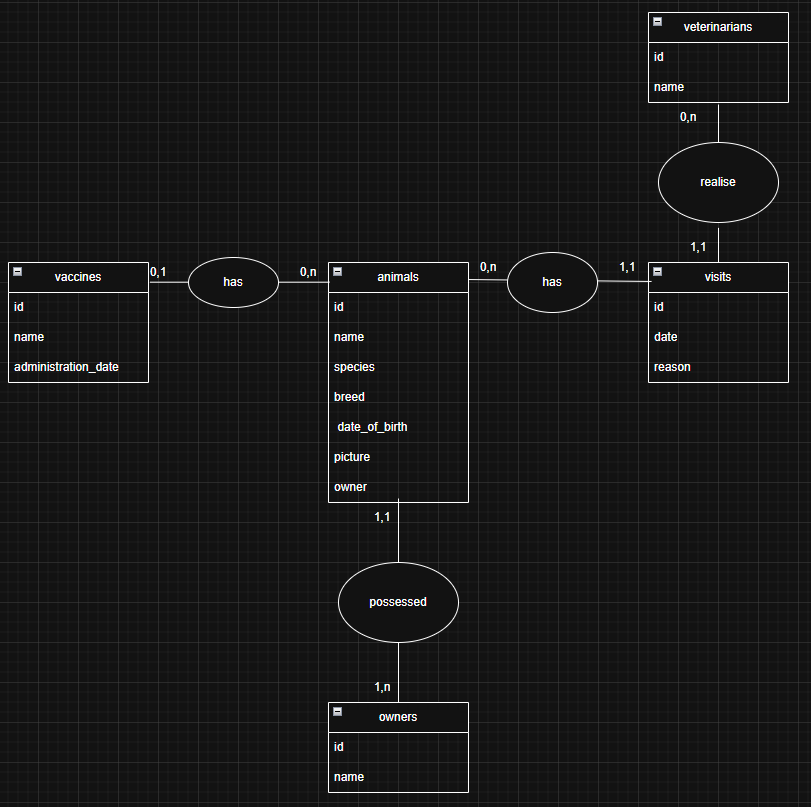
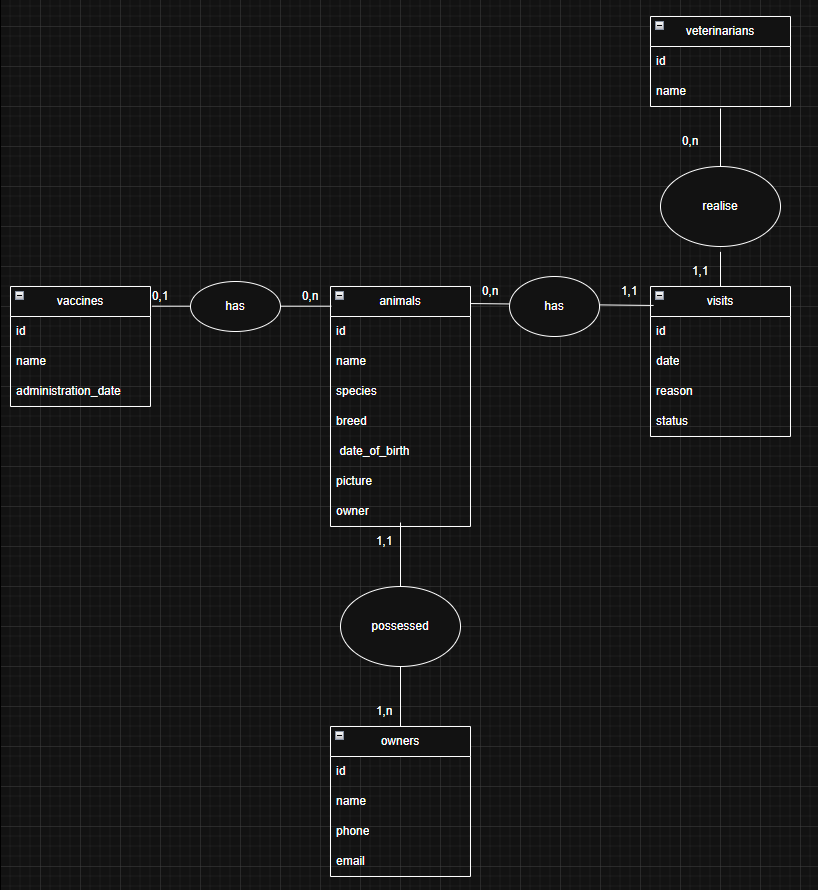
complete field table

diff --git a/docs/dictionnaireDeDonnes.md b/docs/dictionnaireDeDonnes.md
@@ -1,40 +1,69 @@
 # Dictionnaire de données
 
+---
+
+## Table: owners
+| Attribute     | Type     | Required | Description                                |
+|---------------|----------|----------|--------------------------------------------|
+| id            | integer  | Yes      | Unique identifier of the owner             |
+| name          | varchar  | Yes      | Full name of the owner                     |
+| phone         | varchar  | Yes       | Phone number                               |
+| email         | varchar  | Yes       | Email address                              |
+
+---
+
+## Table: veterinarians
+| Attribute     | Type     | Required | Description                                |
+|---------------|----------|----------|--------------------------------------------|
+| id            | integer  | Yes      | Unique identifier of the veterinarian      |
+| name          | varchar  | Yes      | Full name of the veterinarian              |
+
+---
+
 ## Table: animals
-| Attribute       | Type     | Required | Description                                      |
-|-----------------|---------|---------|-------------------------------------------------|
-| id              | integer | Yes     | Unique identifier of the animal                |
-| name            | varchar | Yes     | Name of the animal                              |
-| species         | varchar | Yes     | Species of the animal (e.g., Dog, Cat)         |
-| breed           | varchar | Yes      | Breed of the animal                             |
-| date_of_birth   | date    | Yes      | Date of birth of the animal                     |
-| picture         | varchar | Yes      | URL or path to the animal's picture            |
-| owner           | varchar | Yes      | Name of the owner                               |
+| Attribute       | Type     | Required | Description                                             |
+|-----------------|----------|----------|---------------------------------------------------------|
+| id              | integer  | Yes      | Unique identifier of the animal                        |
+| name            | varchar  | Yes      | Name of the animal                                     |
+| species         | varchar  | Yes      | Species of the animal (e.g., Dog, Cat)                |
+| breed           | varchar  | Yes      | Breed of the animal                                    |
+| date_of_birth   | date     | Yes      | Date of birth of the animal                            |
+| picture         | varchar  | Yes      | URL/path to the animal's picture                       |
+| owner_id        | integer  | Yes      | **Foreign key referencing the owner** (owners.id)      |
 
 ---
 
 ## Table: vaccines
-| Attribute          | Type     | Required | Description                                           |
-|-------------------|---------|---------|------------------------------------------------------|
-| id                | integer | Yes     | Unique identifier of the vaccine record             |
-| animal_id         | integer | Yes     | Foreign key referencing the related animal          |
-| name              | varchar | Yes     | Name of the vaccine                                  |
-| administration_date | date   | No     | Date when the vaccine was administered               |
+| Attribute          | Type     | Required | Description                                             |
+|--------------------|----------|----------|---------------------------------------------------------|
+| id                 | integer  | Yes      | Unique identifier of the vaccine record                |
+| animal_id          | integer  | Yes      | Foreign key referencing the related animal (animals.id) |
+| name               | varchar  | Yes      | Name of the vaccine                                     |
+| administration_date| date     | No       | Date when the vaccine was administered                  |
 
 ---
 
 ## Table: visits
-| Attribute   | Type     | Required | Description                                      |
-|------------|---------|---------|-------------------------------------------------|
-| id         | integer | Yes     | Unique identifier of the visit                  |
-| animal_id  | integer | Yes     | Foreign key referencing the related animal     |
-| date       | date    | Yes     | Date of the visit                               |
-| reason     | varchar | Yes     | Reason or purpose of the visit                  |
+| Attribute        | Type     | Required | Description                                                 |
+|------------------|----------|----------|-------------------------------------------------------------|
+| id               | integer  | Yes      | Unique identifier of the visit                              |
+| animal_id        | integer  | Yes      | Foreign key referencing the related animal (animals.id)     |
+| veterinarian_id  | integer  | Yes      | **Foreign key referencing the veterinarian** (veterinarians.id) |
+| date             | date     | Yes      | Date of the visit                                           |
+| reason           | varchar  | Yes      | Reason or purpose of the visit                              |
+| status           | varchar  | Yes      | Status (`upcoming`, `past`, `cancelled`)                    |
 
 ---
 
-## Relationships
-| From      | To       | Type      | Description                                   |
-|-----------|---------|-----------|-----------------------------------------------|
-| animals   | vaccines | 1 → N     | One animal can have multiple vaccines        |
-| animals   | visits   | 1 → N     | One animal can have multiple visits          |
+# 🔗 Relationships
+
+| From           | To             | Type  | Description                                          |
+|----------------|----------------|-------|------------------------------------------------------|
+| owners         | animals        | 1 → N | One owner can have multiple animals                  |
+| animals        | vaccines       | 1 → N | One animal can have multiple vaccines                |
+| animals        | visits         | 1 → N | One animal can have multiple visits                  |
+| veterinarians  | visits         | 1 → N | One veterinarian can conduct multiple visits         |
+
+---
+
+Si tu veux, je peux aussi te générer le **MCD / MERISE**, un **diagramme UML**, ou encore la **création SQL (DDL)** de toutes ces tables.
